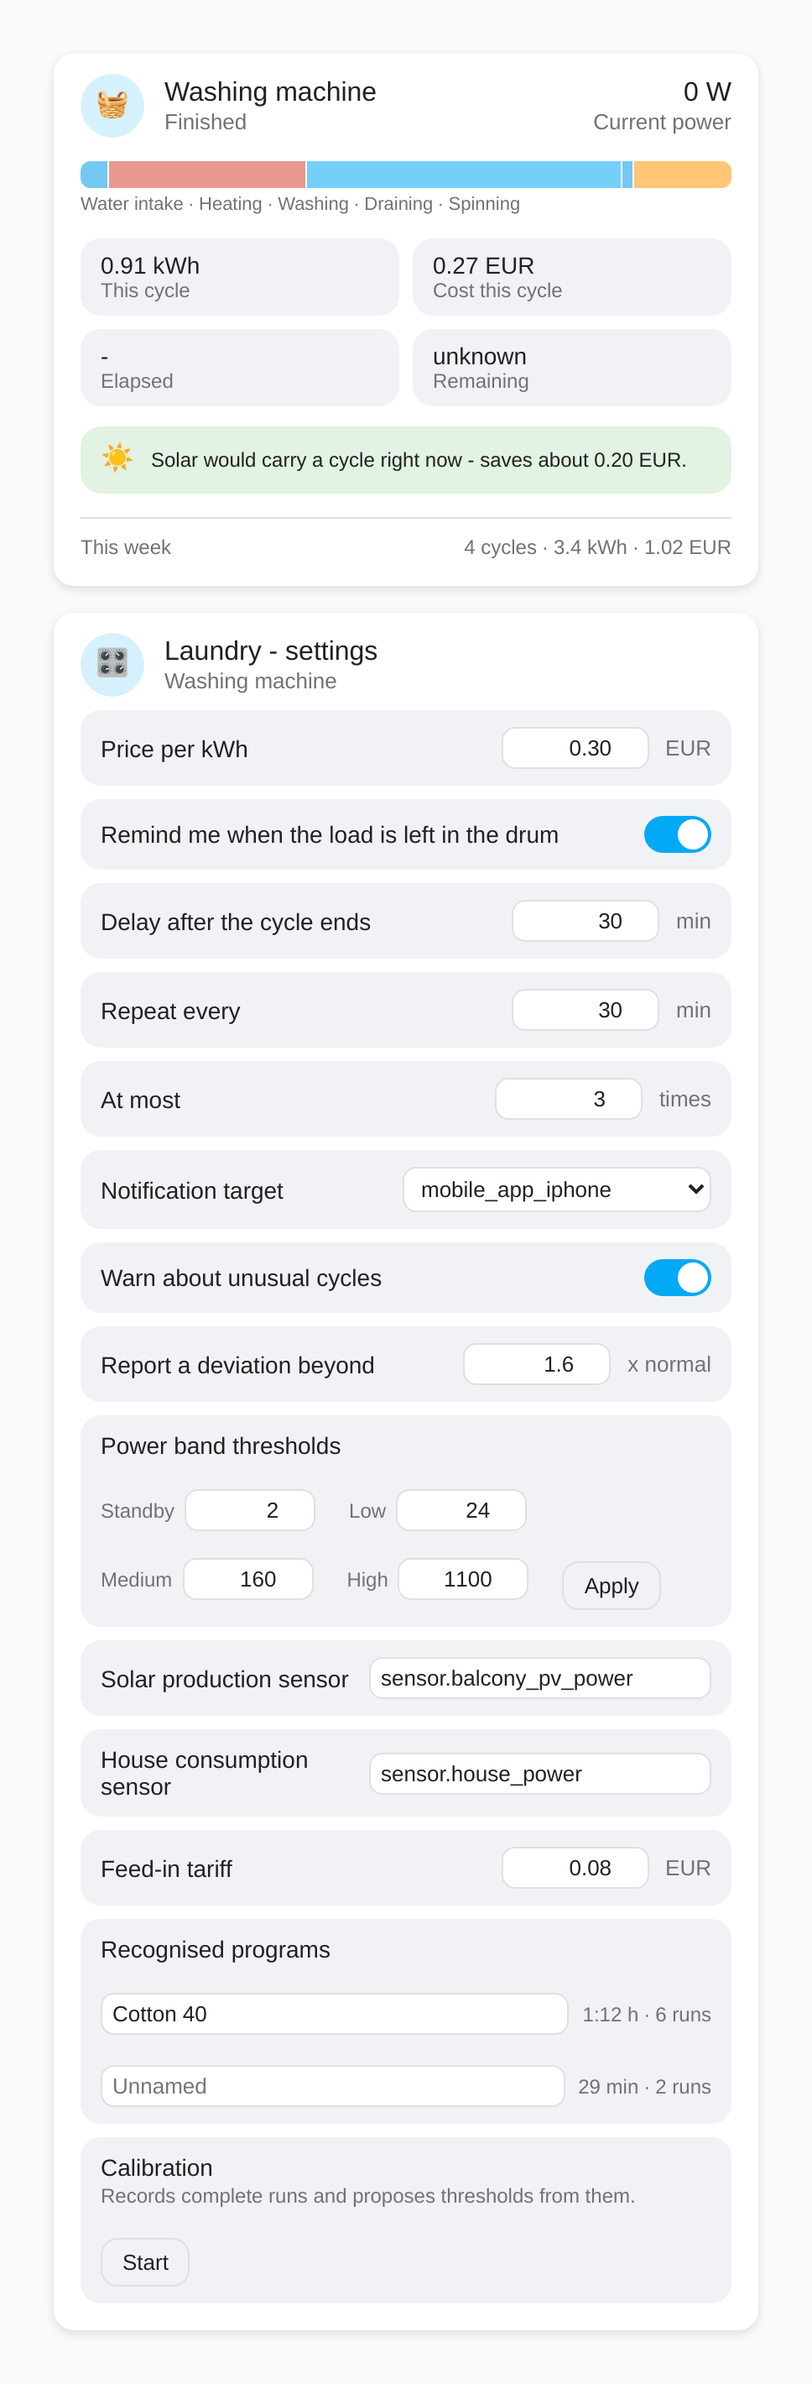
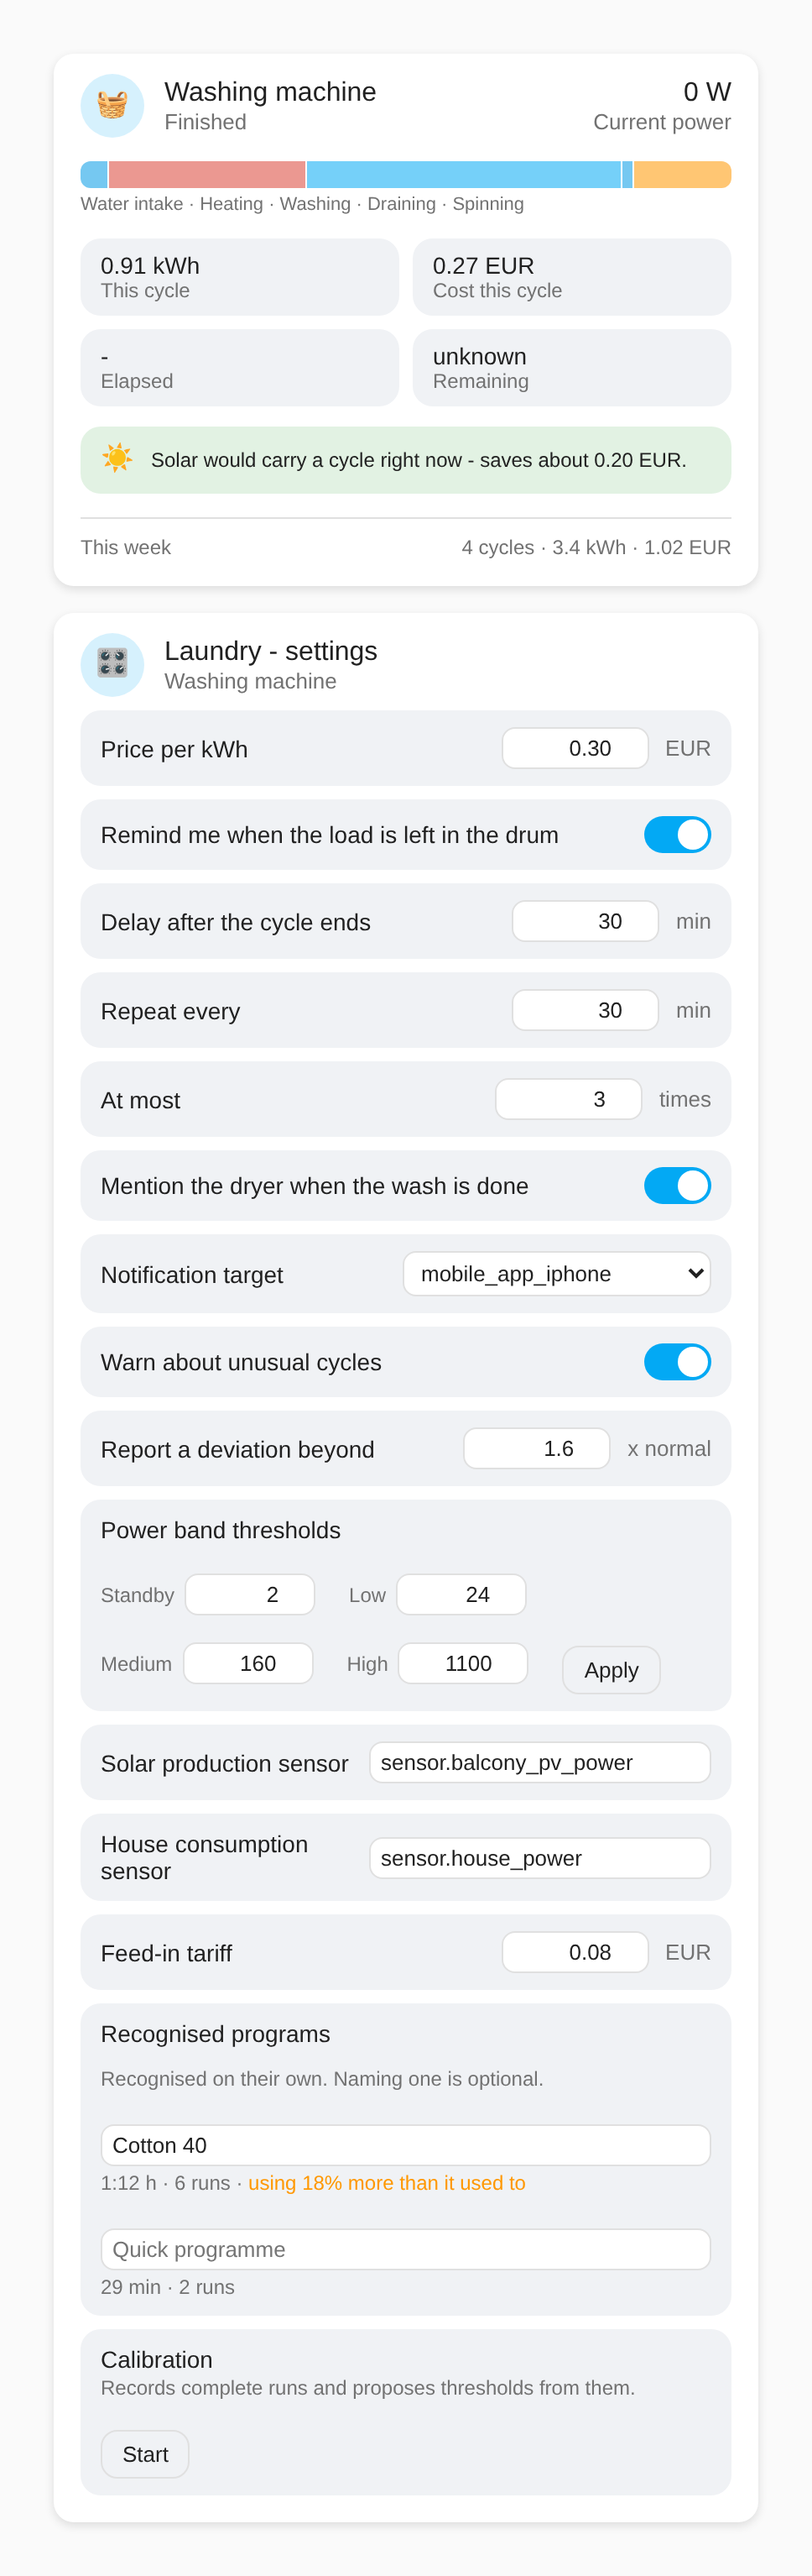
Let recognised programmes name themselves
Programmes were always recognised, matched and used for the remaining-time
estimate with no input from anyone. The list did not look that way: every
entry read "Unnamed" next to an empty text box, which reads as a form
waiting to be filled in rather than as something already working.

Each programme now shows a label derived from its own shape - warm wash,
cold wash, quick programme, long drying programme - and the section says
plainly that naming is optional. A name typed by hand still wins, and
nothing about the stored state changed: the label is presentation only.

Also fixes the name field being squeezed to a few characters by the trend
text beside it, which made renaming - the one thing the field is for -
needlessly fiddly. It gets its own line now.

Screenshots re-rendered.

diff --git a/custom_components/laundry_assistant/frontend/laundry-assistant-card.js b/custom_components/laundry_assistant/frontend/laundry-assistant-card.js
@@ -86,6 +86,12 @@ const STRINGS = {
     trendRising: "using {percent}% more than it used to",
     trendFalling: "using {percent}% less than it used to",
     trendSteady: "steady",
+    progWarm: "Warm wash",
+    progCold: "Cold wash",
+    progShort: "Quick programme",
+    progDry: "Drying programme",
+    progLongDry: "Long drying programme",
+    programsHint: "Recognised on their own. Naming one is optional.",
   },
   de: {
     idle: "Bereit",
@@ -156,6 +162,12 @@ const STRINGS = {
     trendRising: "verbraucht {percent}% mehr als früher",
     trendFalling: "verbraucht {percent}% weniger als früher",
     trendSteady: "unverändert",
+    progWarm: "Warmwäsche",
+    progCold: "Kaltwäsche",
+    progShort: "Kurzprogramm",
+    progDry: "Trockenprogramm",
+    progLongDry: "Langes Trockenprogramm",
+    programsHint: "Werden von selbst erkannt. Benennen ist optional.",
   },
 };
 
@@ -744,22 +756,46 @@ class LaundrySettingsCard extends LaundryBaseCard {
     )}</span>`;
   }
 
+  /** A readable description of a programme, derived from its own shape.
+   *
+   * Programmes are recognised, matched and used for the remaining-time
+   * estimate without anyone naming them - but a list of entries reading
+   * "Unnamed" with an empty box next to it looks like a form waiting to be
+   * filled in. Deriving a label makes the automatic thing look automatic.
+   * A name the user typed always wins.
+   */
+  _derivedLabel(program) {
+    const minutes = (program.duration_seconds || 0) / 60;
+    const timeline = program.timeline || [];
+    const isDryer = this._attrs.appliance_type === "dryer";
+
+    if (isDryer) {
+      return t(this._hass, minutes > 90 ? "progLongDry" : "progDry");
+    }
+    if (minutes < 45) return t(this._hass, "progShort");
+    const heated = timeline.some(
+      (entry) => entry.phase === "heating" && entry.seconds > 60
+    );
+    return t(this._hass, heated ? "progWarm" : "progCold");
+  }
+
   _renderPrograms() {
     const programs = this._attrs.programs || [];
     if (!programs.length) return "";
     const rows = programs
       .map(
         (program) => `
-        <div style="display:flex;align-items:center;gap:8px;margin-top:8px">
-          <input class="num" style="flex:1;text-align:left" type="text"
+        <div style="margin-top:10px">
+          <input class="num" style="width:100%;box-sizing:border-box;text-align:left"
+                 type="text"
                  data-program="${escapeHtml(program.id)}"
-                 placeholder="${escapeHtml(t(this._hass, "unnamedProgram"))}"
+                 placeholder="${escapeHtml(this._derivedLabel(program))}"
                  value="${escapeHtml(program.name || "")}">
-          <span style="font-size:12px;color:var(--secondary-text-color);white-space:nowrap">
+          <div style="font-size:12px;color:var(--secondary-text-color);margin-top:3px">
             ${formatDuration(program.duration_seconds)} &middot; ${program.runs} ${escapeHtml(
               t(this._hass, "runsSuffix")
             )}${this._trendLabel(program)}
-          </span>
+          </div>
         </div>`
       )
       .join("");
@@ -767,6 +803,7 @@ class LaundrySettingsCard extends LaundryBaseCard {
     return `
       <div class="row" style="flex-direction:column;align-items:stretch">
         <div style="font-size:14px">${escapeHtml(t(this._hass, "programs"))}</div>
+        <div style="font-size:12px;color:var(--secondary-text-color);margin-top:2px">${escapeHtml(t(this._hass, "programsHint"))}</div>
         ${rows}
       </div>`;
   }

diff --git a/CHANGELOG.md b/CHANGELOG.md
@@ -1,5 +1,25 @@
 # Changelog
 
+## 0.3.1 - 2026-08-21
+
+### Changed
+
+- **Recognised programmes name themselves.** They were always recognised,
+  matched and used for the remaining-time estimate without anyone doing
+  anything - but a list reading "Unnamed" beside an empty text box looks
+  like a form waiting to be filled in, so the automatic thing did not look
+  automatic. Each programme now shows a label derived from its own shape -
+  a warm wash, a cold wash, a quick programme, a long drying programme -
+  and the section says outright that naming is optional. A name typed by
+  hand still wins.
+
+### Fixed
+
+- The programme name field was squeezed to a few characters by the trend
+  text beside it, which made the one thing it is for - renaming - awkward.
+  It now has a line of its own.
+
+
 ## 0.3.0 - 2026-08-21
 
 Three features, all suggested by what a live installation's data showed
